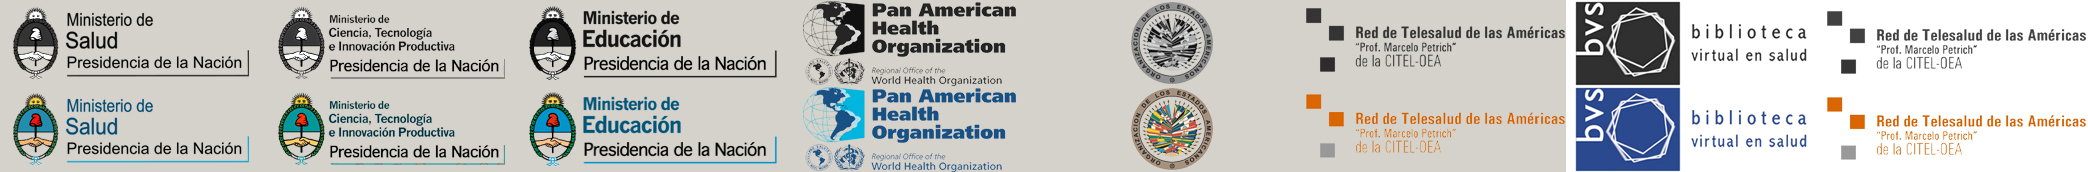
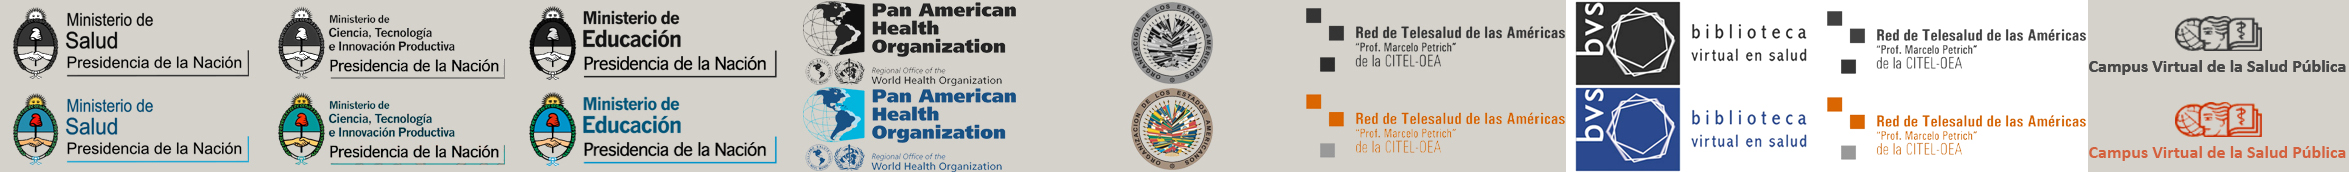
Nuevo sponsor

diff --git a/dev/web/stylesheets/app.css b/dev/web/stylesheets/app.css
@@ -277,6 +277,9 @@ ul#sponsors li {
 #sponsors li a.redTelesaludWhite{
     background-position: -1827px 0;
 }
+#sponsors li a.cvsp{
+    background-position: -2088px 0;
+}
 
 #sponsors li a.ministerioEducacion:hover {
     background-position: -522px -86px;
@@ -301,6 +304,9 @@ ul#sponsors li {
 }
 #sponsors li a.redTelesaludWhite:hover {
     background-position: -1827px -86px;
+}
+#sponsors li a.cvsp:hover {
+    background-position: -2088px -86px;
 }
 
 

diff --git a/dev/web/sponsor_footer.php b/dev/web/sponsor_footer.php
@@ -13,6 +13,7 @@
             <div class="table">
                 <ul id="sponsors"> 
                     <li><a class="panAmerican" href="http://www.paho.org/"></a></li> 
+                    <li><a class="cvsp" href="http://www.campusvirtualsp.org/"></a></li> 
                     <!--<li><a class="oea" href="http://www.oas.org/es/"></a></li> -->
                     <!--<li><a class="redTelesalud" href="#"></a></li> -->
                 </ul>
